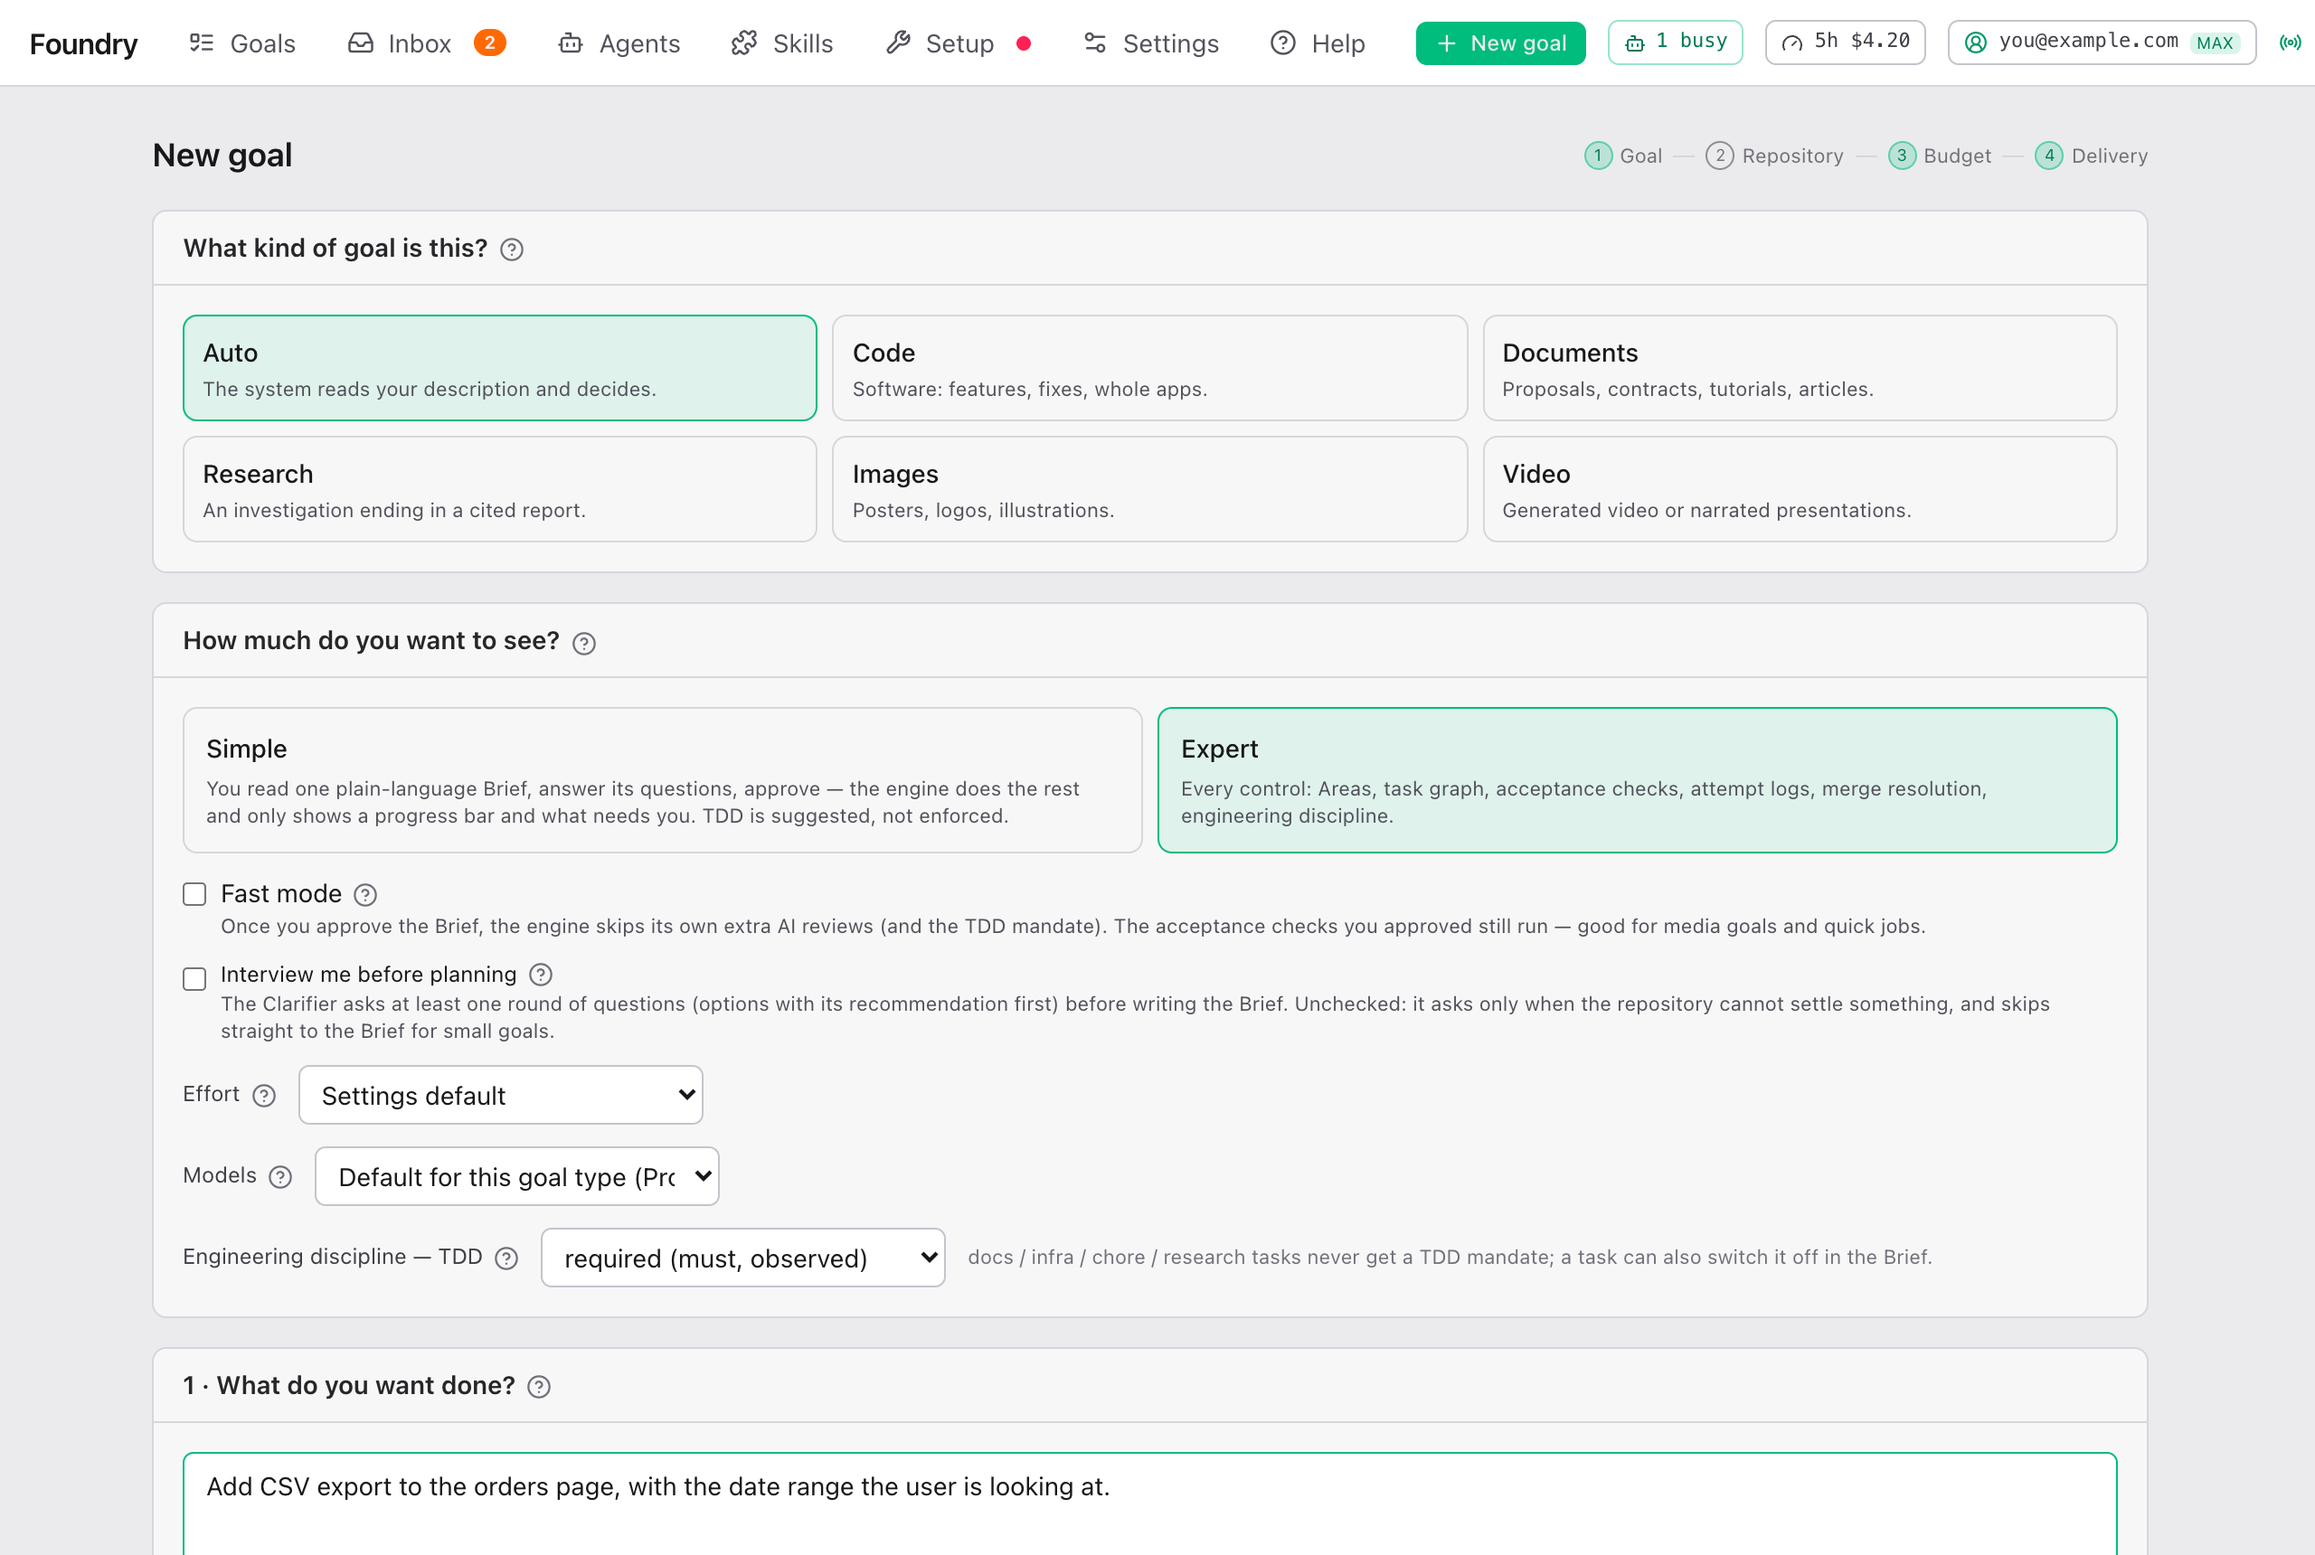
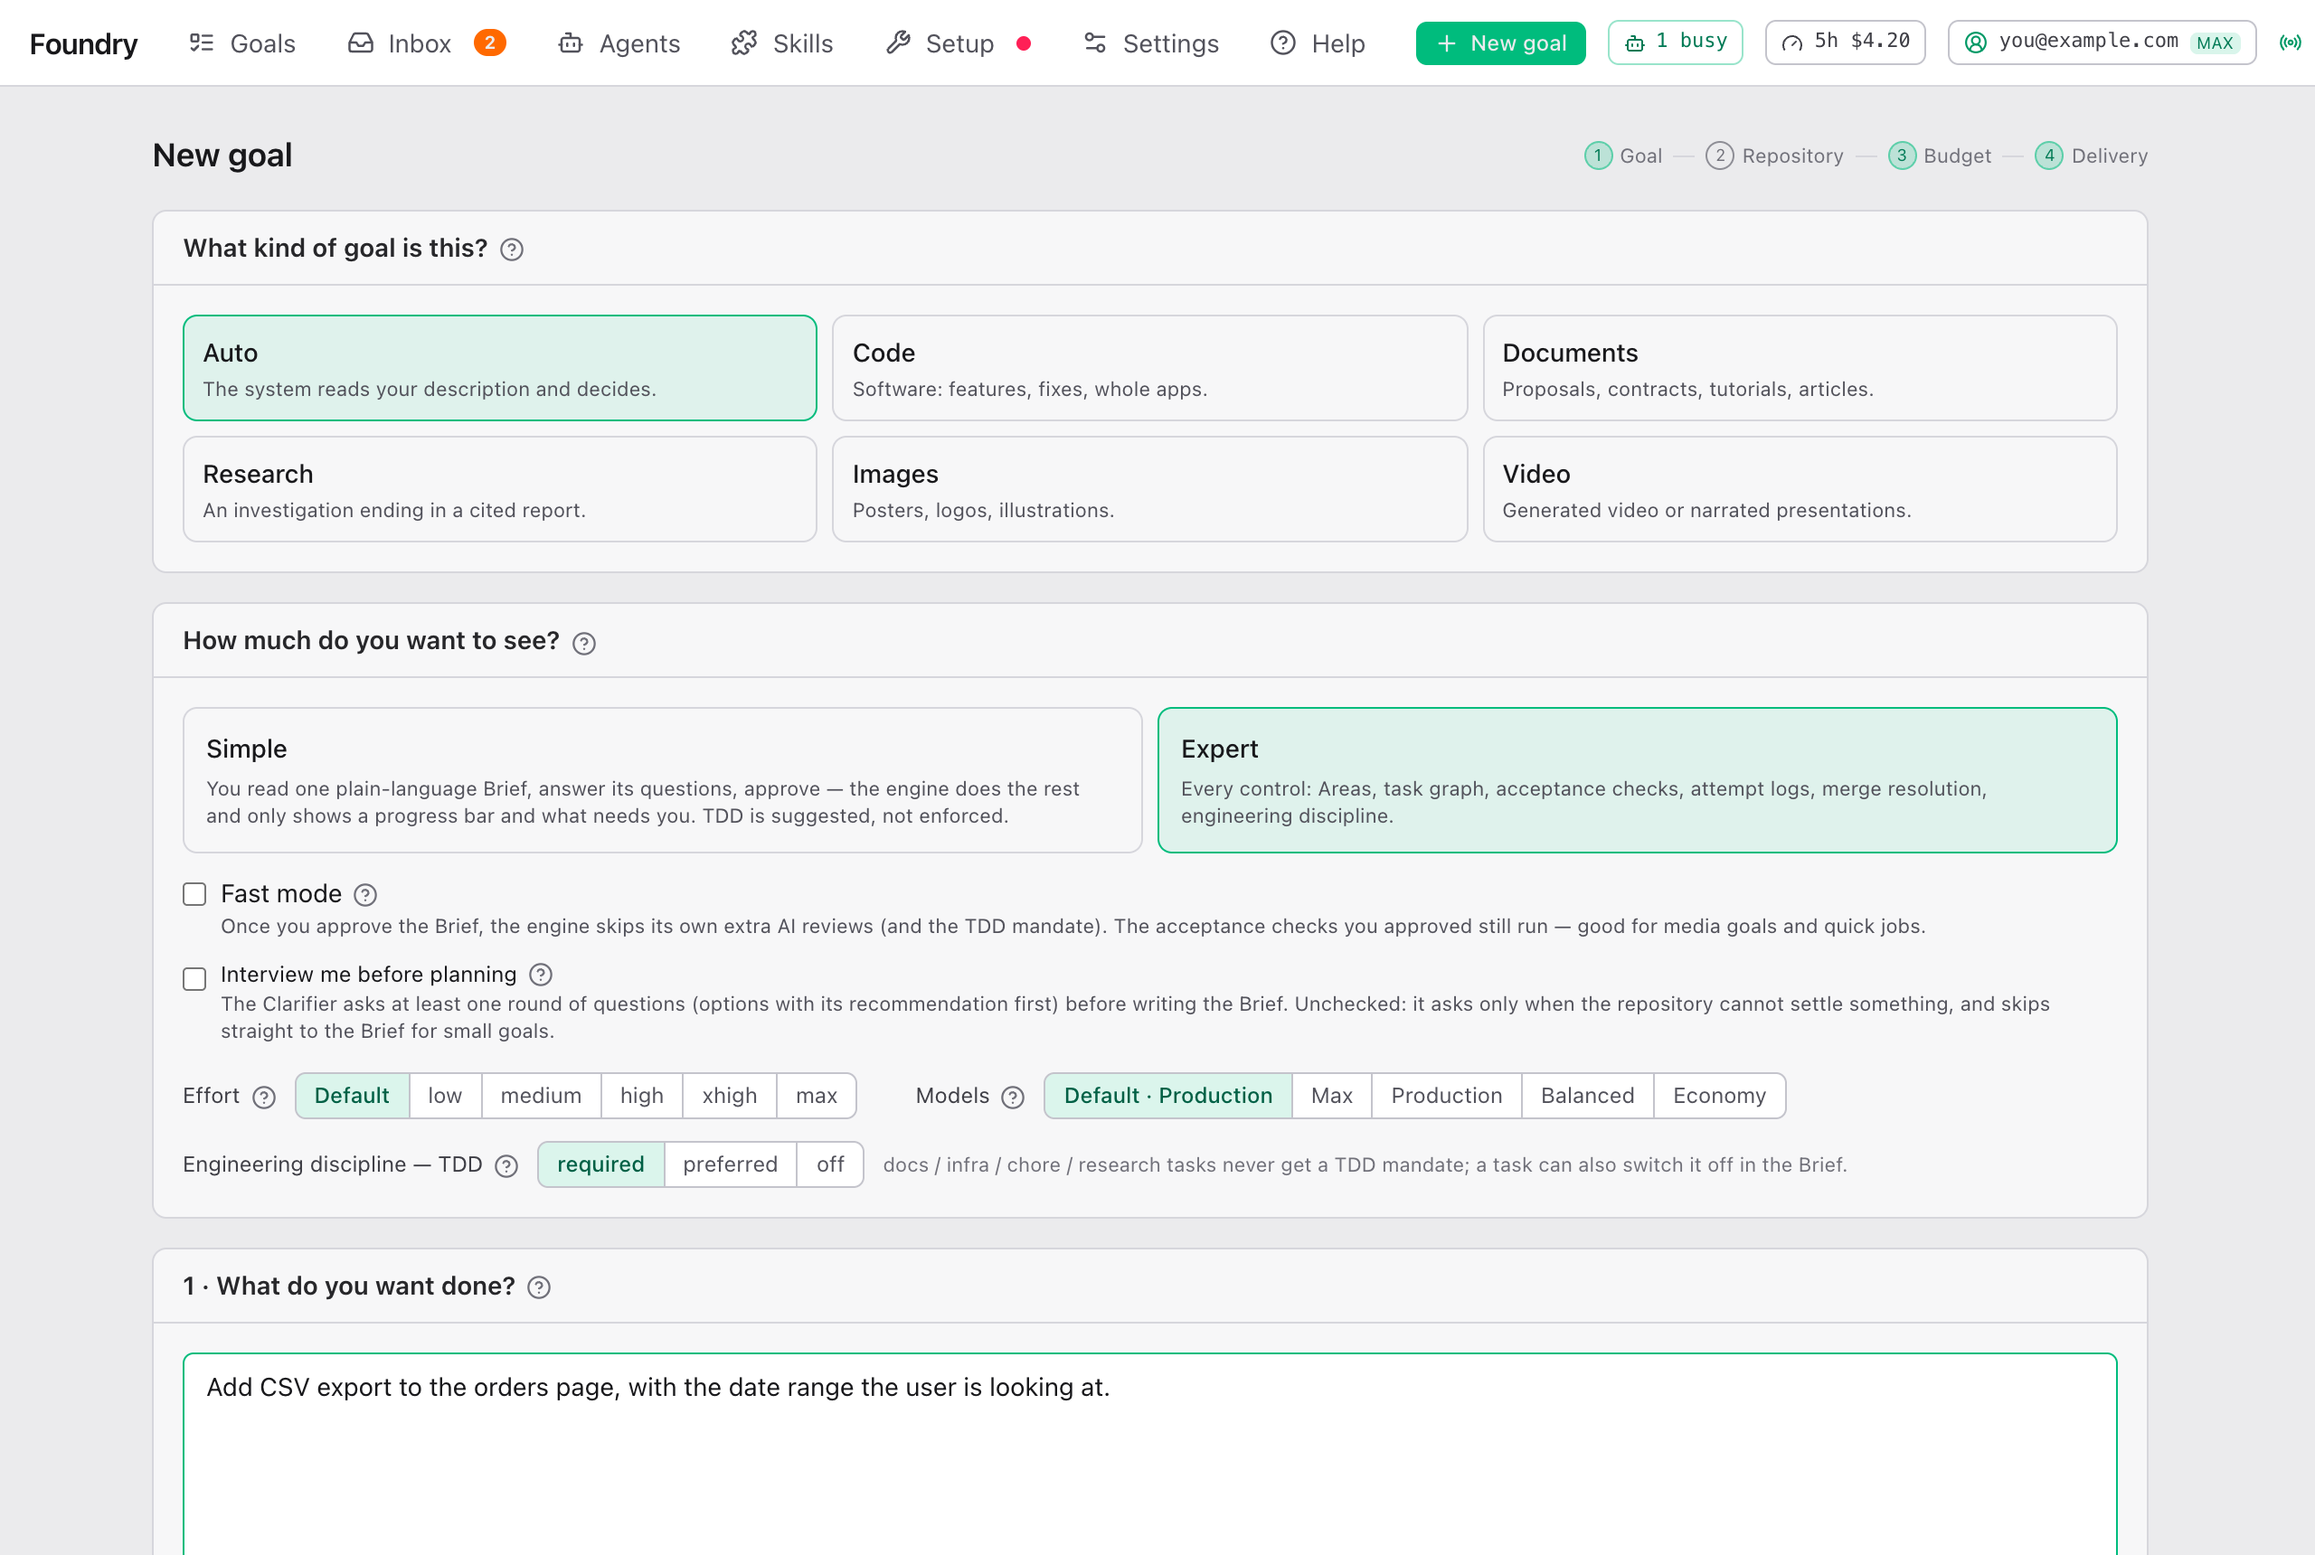
docs(guide): New goal form buttons in English and 中文
The guide quoted the old dropdown labels (Settings default, Default for this goal type, required (must, observed)). It now names the buttons as shown, and the New goal screenshot is recaptured.

diff --git a/docs/guide/your-first-goal.md b/docs/guide/your-first-goal.md
@@ -77,18 +77,18 @@ Unticked: it asks only when your project cannot answer something, and goes strai
 
 ### Effort
 
-How hard every Claude session of this goal thinks.
+How hard every Claude session of this goal thinks. Press one of the buttons; hover one for a short hint.
 
 | Choice | When |
 |---|---|
-| **Settings default** | Most of the time. |
-| **low — fast, cheap** | Small, obvious changes. |
+| **Default** | Most of the time. Uses the effort level set in Settings. |
+| **low** | Small, obvious changes. Fast and cheap. |
 | **medium**, **high** | In between. |
-| **xhigh**, **max — hardest problems** | Hard work that touches many parts of the project. Slower and more expensive. |
+| **xhigh**, **max** | Hard work that touches many parts of the project. Slower and more expensive. |
 
 ### Models
 
-Which [model preset](./settings.md#presets) this goal uses. **Default for this goal type** uses the preset Settings picks for code, documents or media goals; the name in brackets is that preset. Pick **Max**, **Production**, **Balanced**, **Economy** (or one of your own) to override it for this goal only. Cheaper presets cost a fraction of Max.
+Which [model preset](./settings.md#presets) this goal uses. **Default** uses the preset Settings picks for code, documents or media goals; the name after it, for example **Default · Production**, is that preset. It changes when you change the kind of goal. Pick **Max**, **Production**, **Balanced**, **Economy** (or one of your own) to override it for this goal only. Cheaper presets cost a fraction of Max.
 
 ### Engineering discipline (TDD)
 
@@ -96,8 +96,8 @@ Only in Expert view. TDD means writing a test first, then the code that makes it
 
 | Choice | Meaning |
 |---|---|
-| **required (must, observed)** | Workers must follow it, and the reviewer is told when they did not. The default. |
-| **preferred (suggested)** | Suggested only. Simple view goals always use this. |
+| **required** | Workers must follow it, and the reviewer is told when they did not. The default. |
+| **preferred** | Suggested only. Simple view goals always use this. |
 | **off** | Never mentioned. |
 
 Documentation, setup and research tasks never get a TDD rule, and a single task can switch it off in the Brief. With **Fast mode** ticked, TDD is off.
